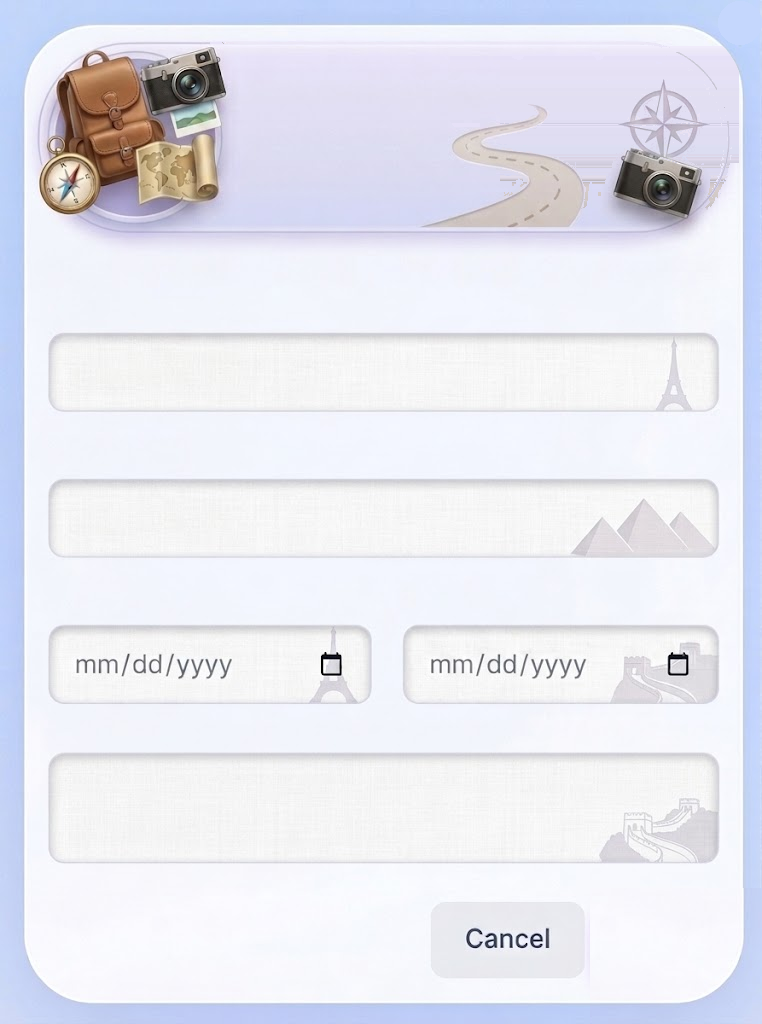
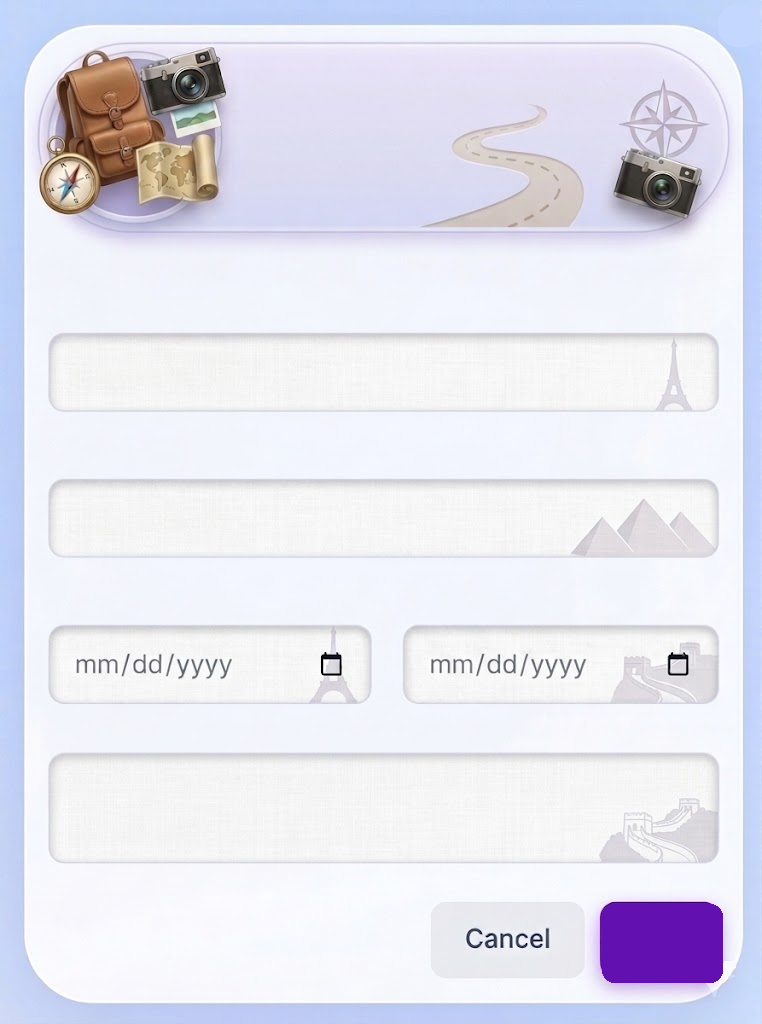
fix(travel): kids Add trip 배경을 원본 PNG로 맞추고 헤더 겹침을 줄인다

Changed region(s): [[0.7546, 0.875, 0.9659, 0.9688], [0.9357, 0.1562, 0.9659, 0.1875], [0.7546, 0.1562, 0.7848, 0.1875]]

diff --git a/app/globals.css b/app/globals.css
@@ -34,9 +34,11 @@
   position: absolute;
   z-index: 2;
   left: 36%;
-  right: 12%;
+  right: 28%;
   top: 7.2%;
   margin: 0;
+  overflow: hidden;
+  white-space: nowrap;
   font-size: clamp(0.52rem, 2.5cqi, 0.68rem);
   font-weight: 700;
   letter-spacing: 0.12em;
@@ -49,9 +51,11 @@
   position: absolute;
   z-index: 2;
   left: 36%;
-  right: 10%;
+  right: 28%;
   top: 10.5%;
   margin: 0;
+  overflow: hidden;
+  white-space: nowrap;
   font-size: clamp(1rem, 5.4cqi, 1.35rem);
   font-weight: 700;
   color: #1e293b;
@@ -62,9 +66,11 @@
   position: absolute;
   z-index: 2;
   left: 36%;
-  right: 12%;
+  right: 28%;
   top: 16.6%;
   margin: 0;
+  overflow: hidden;
+  white-space: nowrap;
   font-size: clamp(0.68rem, 3.2cqi, 0.88rem);
   font-weight: 500;
   color: #334155;

diff --git a/app/modules/travel-planner/TravelPlannerContent.tsx b/app/modules/travel-planner/TravelPlannerContent.tsx
@@ -3649,9 +3649,9 @@ export function TravelPlannerContent() {
             onClick={(e) => e.stopPropagation()}
           >
             <img
-              src="/travel-planner/add-trip-modal.png?v=16"
+              src="/travel-planner/add-trip-modal.png?v=21"
               alt=""
-              className="pointer-events-none absolute inset-0 z-0 h-full w-full object-fill"
+              className="pointer-events-none absolute inset-0 z-0 h-full w-full object-cover"
             />
             <p className="travel-kids-add-trip-kicker">{tt('title')}</p>
             <h3 className="travel-kids-add-trip-heading">{tt('add_trip')}</h3>
